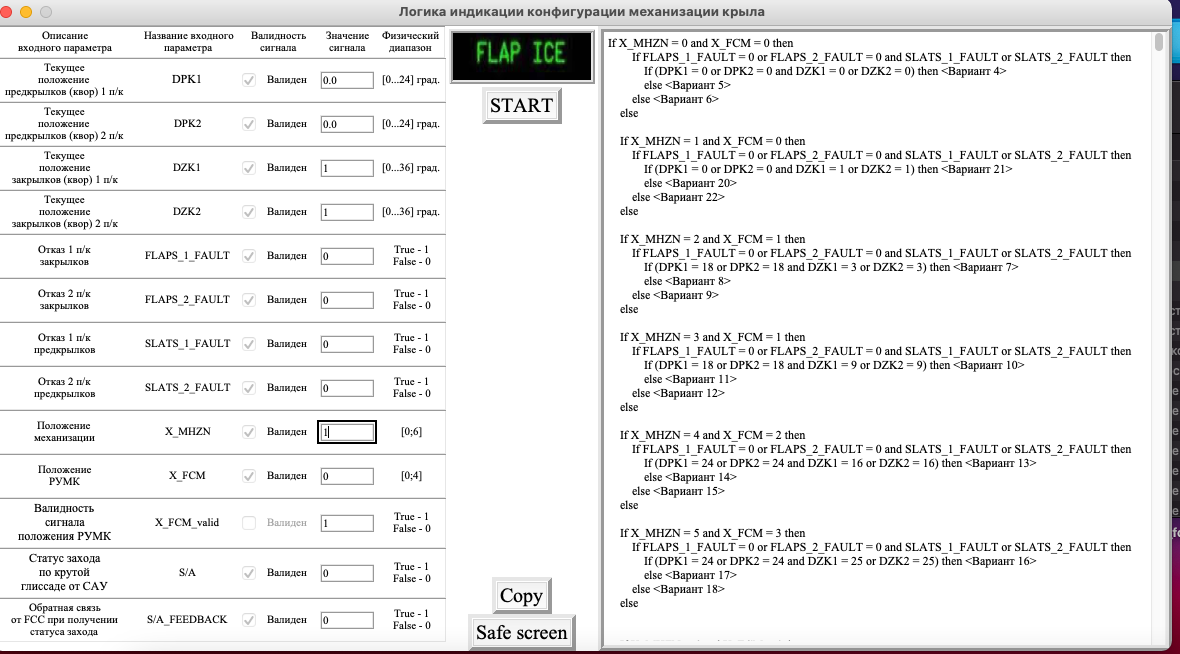
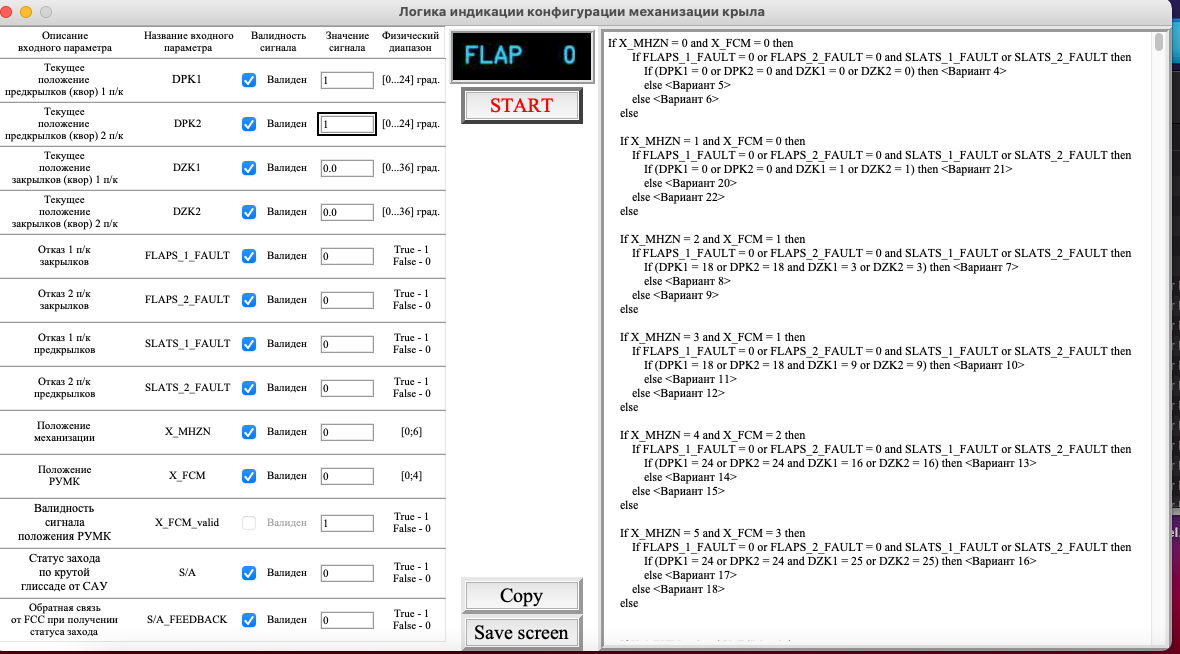
Приложение почти готово к работе. Надо разобраться с скриншотами и копированием теккста.

diff --git a/GUI_user.py b/GUI_user.py
@@ -1,11 +1,25 @@
 from tkinter import *
-from openpyxl import load_workbook
 
+import rm as rm
+from openpyxl import load_workbook
+from PIL import Image, ImageTk
+from pyautogui import *
+import tkcap
+import pyperclip
+
+# Ввод переменных
 wb = load_workbook(filename='logic.xlsx', read_only=True)
 ws = wb['6_3_8']
+
 descriptSig = []
 nameSig = []
 diapSig = []
+
+im = 'Indication/Var19.png'
+
+logic = open('logic_text/logic_6_3_8.txt', encoding='utf-8').readlines()
+logic = ''.join(logic)
+
 for i in ws.rows:
     #break
     for k in i:
@@ -15,20 +29,161 @@ for i in ws.rows:
             nameSig.append(k.value)
         elif k == i[2]:
             diapSig.append(k.value)
+
 k: IntVar = 0
 v_s = []
 p_s = []
+count = 1
 
 def chek_b1():
     global p_s
     global v_s
-
+    global c_image
+    global im
+    global canavas
     v_s = []
     p_s = []
     for l in range(len(descriptSig)):
         exec('v_s.append(var{}.get())'.format(str(l)))
         exec('p_s.append(txt{}.get())'.format(str(l)))
-    print(p_s, "\n", v_s)
+
+    im = logik_of_indication(v_s, p_s)
+    image = Image.open(im)
+    photo = ImageTk.PhotoImage(image)
+    c_image = canvas.create_image(0, 0, anchor=NW, image=photo)
+    canvas.pack(side=TOP)
+
+def logik_of_indication(v_s, p_s):
+        global im
+        if 0 <= p_s[0] <= 24 and 0 <= p_s[1] <= 24 and 0 <= p_s[2] <= 36 and 0 <= p_s[3] <= 36 and 0 <= p_s[4] <= 1 \
+                and 0 <= p_s[5] <= 1 and 0 <= p_s[6] <= 1 and 0 <= p_s[7] <= 1 and 0 <= p_s[8] <= 6 and 0 <= p_s[9] <= 4 \
+                and 0 <= p_s[10] <= 1 and 0 <= p_s[11] <= 1 and 0 <= p_s[12] <= 1:
+            if v_s[8] == 1 and (v_s[0] == 1 or v_s[1] == 1) and (v_s[2] == 1 or v_s[3] == 1) and v_s[8] == 1 and p_s[
+                10] == 1:
+
+                if p_s[8] == 0 and p_s[9] == 0:  # СУМК = 0 РУМК = 0
+                    if (p_s[4] == 0 or p_s[5] == 0) and (p_s[6] == 0 or p_s[7] == 0):
+                        if (p_s[0] == 0 or p_s[1] == 0) and (p_s[2] == 0 or p_s[3] == 0):
+                            print('Вариант 4 | FLAP 0 - надпись отсутствует')
+                            im = "Indication/Var4.png"
+
+                        else:
+                            print('Вариант 5 | FLAP 0 - цвет голубой')
+                            im = "Indication/Var5.png"
+                    else:
+                        print('Вариант 6 | FLAP 0 - цвет янтарный')
+                        im = "Indication/Var6.png"
+
+                elif p_s[8] == 1 and p_s[9] == 0:  # СУМК = 1 РУМК = 0
+                    if (p_s[4] == 0 or p_s[5] == 0) and (p_s[6] == 0 or p_s[7] == 0):
+                        if (p_s[0] == 0 or p_s[1] == 0) and (p_s[2] == 1 or p_s[3] == 1):
+                            print('Вариант 21 | FLAP ICE - зеленый')
+                            im = "Indication/Var21.png"
+                        else:
+                            print('Вариант 20 | FLAP ICE - цвет голубой')
+                            im = "Indication/Var20.png"
+                    else:
+                        print('Вариант 22 | FLAP ICE - цвет янтарный')
+                        im = "Indication/Var22.png"
+
+                elif p_s[8] == 2 and p_s[9] == 1:  # СУМК 2 РУМК = 1
+                    if (p_s[4] == 0 or p_s[5] == 0) and (p_s[6] == 0 or p_s[7] == 0):
+                        if (p_s[0] == 18 or p_s[1] == 18) and (p_s[2] == 3 or p_s[3] == 3):
+                            print('Вариант 7 | FLAP 1 - зеленый')
+                            im = "Indication/Var7.png"
+                        else:
+                            print('Вариант 8 | FLAP 1 - цвет голубой')
+                            im = "Indication/Var8.png"
+                    else:
+                        print('Вариант 9 | FLAP 1 - цвет янтарный')
+                        im = "Indication/Var9.png"
+
+                elif p_s[8] == 3 and p_s[9] == 1:  # СУМК = 3 РУМК = 1
+                    if (p_s[4] == 0 or p_s[5] == 0) and (p_s[6] == 0 or p_s[7] == 0):
+                        if (p_s[0] == 18 or p_s[1] == 18) and (p_s[2] == 9 or p_s[3] == 9):
+                            print('Вариант 10 | FLAP 1 + F - зеленый')
+                            im = "Indication/Var10.png"
+                        else:
+                            print('Вариант 11 | FLAP 1 + F - цвет голубой')
+                            im = "Indication/Var11.png"
+                    else:
+                        print('Вариант 12 | FLAP 1 + F - цвет янтарный')
+                        im = "Indication/Var12.png"
+
+                elif p_s[8] == 4 and p_s[9] == 2:  # СУМК = 4 РУМК = 2
+                    if (p_s[4] == 0 or p_s[5] == 0) and (p_s[6] == 0 or p_s[7] == 0):
+                        if (p_s[0] == 24 or p_s[1] == 24) and (p_s[2] == 16 or p_s[3] == 16):
+                            print('Вариант 13 | FLAP 2 - зеленый')
+                            im = "Indication/Var13.png"
+                        else:
+                            print('Вариант 14 | FLAP 2 - цвет голубой')
+                            im = "Indication/Var14.png"
+                    else:
+                        print('Вариант 15 | FLAP 2 - цвет янтарный')
+                        im = "Indication/Var15.png"
+
+                elif p_s[8] == 5 and p_s[9] == 3:
+                    if (p_s[4] == 0 or p_s[5] == 0) and (p_s[6] == 0 or p_s[7] == 0):
+                        if (p_s[0] == 24 or p_s[1] == 24) and (p_s[2] == 25 or p_s[3] == 25):
+                            print('Вариант 16 | FLAP 3 - зеленый')
+                            im = "Indication/Var16.png"
+                        else:
+                            print('Вариант 17 | FLAP 3 - цвет голубой')
+                            im = "Indication/Var17.png"
+                    else:
+                        print('Вариант 18 | FLAP 3 - цвет янтарный')
+                        im = "Indication/Var18.png"
+                elif p_s[8] == 6 and p_s[9] == 4:
+                    if (p_s[4] == 0 or p_s[5] == 0) and (p_s[6] == 0 or p_s[7] == 0):
+                        if (p_s[0] == 24 or p_s[1] == 24) and (p_s[2] == 36 or p_s[3] == 36):
+                            if p_s[11] == 1:
+                                if v_s[10] == 1 and v_s[11] == 1 and p_s[12] == 1:
+                                    print('Вариант 23 | FULL-S/A - цвет зеленый')
+                                    im = "Indication/Var23.png"
+                                else:
+                                    print('Вариант 24 | FULL-S/A - цвет янтарный')
+                                    im = "Indication/Var24.png"
+                            else:
+                                print('Вариант 1 | FULL - цвет зеленый')
+                                im = "Indication/Var1.png"
+                        else:
+                            print('Вариант 2 | FULL - цвет синий')
+                            im = "Indication/Var2.png"
+                    else:
+                        print('Вариант 3 | FULL - цвет янтарный')
+                        im = "Indication/Var3.png"
+
+            else:
+                print('Вариант 19 | XXXX')
+                im = "Indication/Var19.png"
+        else:
+            im = "Indication/Error.png"
+        print(v_s, "\n", p_s)
+        return im
+
+def screen():
+    global count
+    count += 1
+    cap = tkcap.CAP(win)
+    cap.capture("Screenshots/Screen{}.png".format(str(count)))
+
+def copy():
+    f = open("../../Test_log.txt", "w")
+    f.write(logic)
+    f.close()
+    pyperclip.copy(logic)
+    return 0
+
+def open_main():
+    win.destroy()
+    import help
+    return 0
+
+def go_away():
+    win.withdraw()
+
+def come_back(self):
+    win.deiconify()
 
 win = Tk()
 # Начало таблицы
@@ -49,6 +204,7 @@ lbl2.pack(side=LEFT)
 lbl3.pack(side=LEFT)
 lbl4.pack(side=LEFT)
 
+# Циклическое создание таблицы
 for i in range(len(descriptSig)):
     exec('txt{} = DoubleVar()'.format(str(i)))
     exec('var{} = IntVar()'.format(str(i)))
@@ -89,10 +245,41 @@ for i in range(len(descriptSig)):
     exec("text{}1.pack(side=LEFT)".format(str(i)))
 # Конец таблицы ###################################################
 
+fr_results = Frame(win)
+fr_start = Frame(fr_results, relief="raised", bd=4, bg="black")
+fr_copy = Frame(fr_results, relief="raised", bd=4)
+fr_screen = Frame(fr_results, relief="raised", bd=4)
+fr_logic = Frame(win, relief=RIDGE, bd=6)
+
+start_bt = Button(fr_start, text="START", font=("Times New Roman", 20), fg="red", activeforeground="#ADFF2F", cursor="hand1", command=chek_b1, width=11)
+copy_bt = Button(fr_copy, text="Copy", font=('Times New Roman', 20), command=copy, width=11)
+scr_and_sv = Button(fr_screen, text="Save screen", font=("Times New Roman", 20), cursor="pirate", command=screen, width=11)
+canvas = Canvas(fr_results, relief="ridge", bd=4, height=47, width=138)
+
+text = Text(fr_logic, font=("Times New Roman", 12), width=90)
+text.insert(END, logic)
+
+scr = Scrollbar(fr_logic)
+
+chb10["state"] = DISABLED
 
 
-test = Button(win, text="Test", command=chek_b1)
-test.pack(side=TOP)
+        # Добавим изображение
+image = Image.open(im)
+photo = ImageTk.PhotoImage(image)
+c_image = canvas.create_image(60, 160, anchor='nw', image=photo)
+
+fr_results.pack(side=LEFT, fill=BOTH)
+canvas.pack(side=TOP)
+fr_start.pack(side=TOP)
+start_bt.pack()
+fr_screen.pack(side=BOTTOM)
+scr_and_sv.pack()
+fr_copy.pack(side=BOTTOM)
+copy_bt.pack()
+fr_logic.pack(side=LEFT, fill=BOTH)
+scr.pack(side=RIGHT, fill=Y)
+text.pack(side=LEFT, fill=BOTH)
 
 win.mainloop()
 

diff --git a/indicate_6_3_8.py b/indicate_6_3_8.py
@@ -236,6 +236,7 @@ class Indication_6_3_8:
         self.image = Image.open(Indication_6_3_8.im)
         self.photo = ImageTk.PhotoImage(self.image)
         self.c_image = self.canvas.create_image(60, 160, anchor='nw', image=self.photo)
+        print(self.image, "\n", self.photo, "\n", self.c_image)
 
         # Расположение виджетов
         self.fr_main.pack(side=LEFT, fill=Y)

diff --git a/Test_GUI.py b/Test_GUI.py
@@ -1,11 +1,6 @@
-import tkinter as tk
+import subprocess
 
-root = tk.Tk()
 
-T1 = tk.Text(root)
-T1.tag_configure("center", justify='center')
-T1.insert("1.0", "text")
-T1.tag_add("center", "1.0", "end")
-T1.pack()
-
-root.mainloop()
+subprocess.call(["pwd"])
+subprocess.call(["rm", "Screenshots\*.png"])
+subprocess.call(["pwd"])
